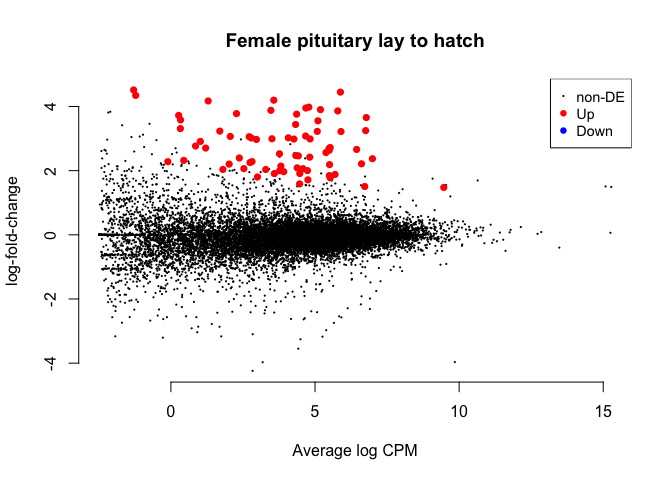
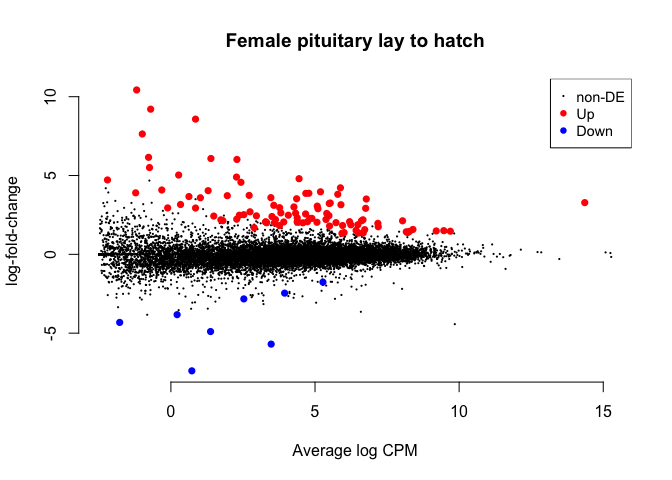
more ma plots and a volcano plot

diff --git a/scripts/01_limma_all.md b/scripts/01_limma_all.md
@@ -8,6 +8,18 @@ tutorial](https://www.bioconductor.org/packages/devel/workflows/vignettes/RNAseq
     library(Glimma)
     library(edgeR)
     library(kableExtra)
+    library(cowplot)
+
+    ## Loading required package: ggplot2
+
+    ## 
+    ## Attaching package: 'cowplot'
+
+    ## The following object is masked from 'package:ggplot2':
+    ## 
+    ##     ggsave
+
+    library(ggplot2)
 
     knitr::opts_chunk$set(fig.path = '../figures/',cache=TRUE)
 
@@ -130,7 +142,7 @@ specify contrasts
     my.contrasts <- makeContrasts(
                  FG_HL = female.gonad.hatch - female.gonad.lay,
                  FH_HL = female.hypothalamus.hatch - female.hypothalamus.lay,
-                 FP_HL = male.pituitary.hatch - male.pituitary.lay,
+                 FP_HL = female.pituitary.hatch - female.pituitary.lay,
                  MP_HL = male.pituitary.hatch - male.pituitary.lay,
                  MH_HL = male.hypothalamus.hatch - male.hypothalamus.lay,
                  MG_HL = male.gonad.hatch - male.gonad.lay,          
@@ -147,7 +159,7 @@ specify contrasts
     ## Up                                            2
 
     #kable(topTags(glmTreat(fit, contrast=my.contrasts[,cont]), n=5), digits=2, lfc = 1)
-    plotMD(glmTreat(fit, contrast=my.contrasts[,cont], lfc=1), main='Female gonad lay to hatch', frame.plot=F)
+    c <- plotMD(glmTreat(fit, contrast=my.contrasts[,cont], lfc=1), main='Female gonad lay to hatch', frame.plot=F)
 
 ![](../figures/01-contrasts-1.png)
 
@@ -162,11 +174,56 @@ specify contrasts
     ## Up                                                          2
 
     #kable(topTags(glmTreat(fit, contrast=my.contrasts[,cont]), n=5), digits=2, lfc = 1)
-    plotMD(glmTreat(fit, contrast=my.contrasts[,cont], lfc=1), main='Female hypothalamus lay to hatch', frame.plot=F)
+    a <- plotMD(glmTreat(fit, contrast=my.contrasts[,cont], lfc=1), main='Female hypothalamus lay to hatch', frame.plot=F)
 
 ![](../figures/01-contrasts-2.png)
 
     cont <- "FP_HL"
+    summary(decideTestsDGE(
+        glmTreat(fit, contrast=my.contrasts[,cont], lfc = 1), 
+        adjust.method="fdr", p.value=0.01))
+
+    ##        1*female.pituitary.hatch -1*female.pituitary.lay
+    ## Down                                                  4
+    ## NotSig                                            14852
+    ## Up                                                   81
+
+    #kable(topTags(glmTreat(fit, contrast=my.contrasts[,cont]), n=5), digits=2, lfc = 1)
+    b <- plotMD(glmTreat(fit, contrast=my.contrasts[,cont], lfc=1), main='Female pituitary lay to hatch', frame.plot=F)
+
+![](../figures/01-contrasts-3.png)
+
+    cont <- "MG_HL"
+    summary(decideTestsDGE(
+        glmTreat(fit, contrast=my.contrasts[,cont], lfc = 1), 
+        adjust.method="fdr", p.value=0.01))
+
+    ##        1*male.gonad.hatch -1*male.gonad.lay
+    ## Down                                      1
+    ## NotSig                                14936
+    ## Up                                        0
+
+    #kable(topTags(glmTreat(fit, contrast=my.contrasts[,cont]), n=5), digits=2, lfc = 1)
+    f <- plotMD(glmTreat(fit, contrast=my.contrasts[,cont], lfc=1), main='Male gonad lay to hatch', frame.plot=F)
+
+![](../figures/01-contrasts-4.png)
+
+    cont <- "MH_HL"
+    summary(decideTestsDGE(
+        glmTreat(fit, contrast=my.contrasts[,cont], lfc = 1), 
+        adjust.method="fdr", p.value=0.01))
+
+    ##        1*male.hypothalamus.hatch -1*male.hypothalamus.lay
+    ## Down                                                    0
+    ## NotSig                                              14937
+    ## Up                                                      0
+
+    #kable(topTags(glmTreat(fit, contrast=my.contrasts[,cont]), n=5), digits=2, lfc = 1)
+    d <- plotMD(glmTreat(fit, contrast=my.contrasts[,cont], lfc=1), main='Male hypothalamus lay to hatch', frame.plot=F)
+
+![](../figures/01-contrasts-5.png)
+
+    cont <- "MP_HL"
     summary(decideTestsDGE(
         glmTreat(fit, contrast=my.contrasts[,cont], lfc = 1), 
         adjust.method="fdr", p.value=0.01))
@@ -177,6 +234,46 @@ specify contrasts
     ## Up                                               55
 
     #kable(topTags(glmTreat(fit, contrast=my.contrasts[,cont]), n=5), digits=2, lfc = 1)
-    plotMD(glmTreat(fit, contrast=my.contrasts[,cont], lfc=1), main='Female pituitary lay to hatch', frame.plot=F)
+    e <- plotMD(glmTreat(fit, contrast=my.contrasts[,cont], lfc=1), main='Male pituitary lay to hatch', frame.plot=F)
 
-![](../figures/01-contrasts-3.png)
+![](../figures/01-contrasts-6.png)
+
+    plot_grid(a,b,c,d,e,f, nrow = 2)
+
+![](../figures/01-contrasts-7.png)
+
+    # from http://www.compbio.dundee.ac.uk/user/pschofield/Projects/teaching_pg/workshops/biocDGE.html#maplots
+
+    lrt <- glmLRT(fit,coef=2)
+    topTags(lrt)
+
+    ## Coefficient:  female.gonad.control 
+    ##                row.names   Name geneid       entrezid     logFC   logCPM
+    ## NP_001034689.1    423130 ZDHHC5 423130 NP_001034689.1 -1.765980 5.108494
+    ## XP_015144701.1    424039   PCNT 424039 XP_015144701.1 -1.749180 7.721697
+    ## XP_414493.1       416161  CCNG1 416161    XP_414493.1  1.284982 6.319566
+    ## XP_004940508.2    421875   BAI3 421875 XP_004940508.2  2.122044 7.319320
+    ## XP_015150276.1    426991  ACSM4 426991 XP_015150276.1  4.346866 4.062362
+    ## XP_015145487.1    424246  DIRC2 424246 XP_015145487.1 -1.541659 6.727815
+    ## XP_015148335.1    415945 SEMA3G 415945 XP_015148335.1 -3.682352 2.321141
+    ## XP_004939926.1    421139    CA8 421139 XP_004939926.1 -4.156934 4.602398
+    ## NP_990011.1       395411 ZBTB7A 395411    NP_990011.1 -1.364403 4.598160
+    ## NP_001186400.1    422975  PRMT3 422975 NP_001186400.1  1.459907 5.523044
+    ##                      LR       PValue          FDR
+    ## NP_001034689.1 179.2203 7.172207e-41 1.071313e-36
+    ## XP_015144701.1 174.5304 7.581380e-40 4.318126e-36
+    ## XP_414493.1    174.2630 8.672677e-40 4.318126e-36
+    ## XP_004940508.2 173.0488 1.597019e-39 5.963667e-36
+    ## XP_015150276.1 171.7558 3.059738e-39 9.140660e-36
+    ## XP_015145487.1 170.8755 4.763826e-39 1.185954e-35
+    ## XP_015148335.1 166.1335 5.172465e-38 1.103730e-34
+    ## XP_004939926.1 163.9095 1.583216e-37 2.956062e-34
+    ## NP_990011.1    157.8089 3.407224e-36 5.654856e-33
+    ## NP_001186400.1 156.5373 6.460306e-36 9.649759e-33
+
+    tt <- topTags(lrt,n=10000)$table
+
+    ggplot(data=tt) + geom_point(aes(x=logFC,y=-log(FDR),color=logCPM)) +
+      scale_colour_gradientn(colours=c("#000000" ,"#FF0000" ))
+
+![](../figures/volcanoplots-1.png)
